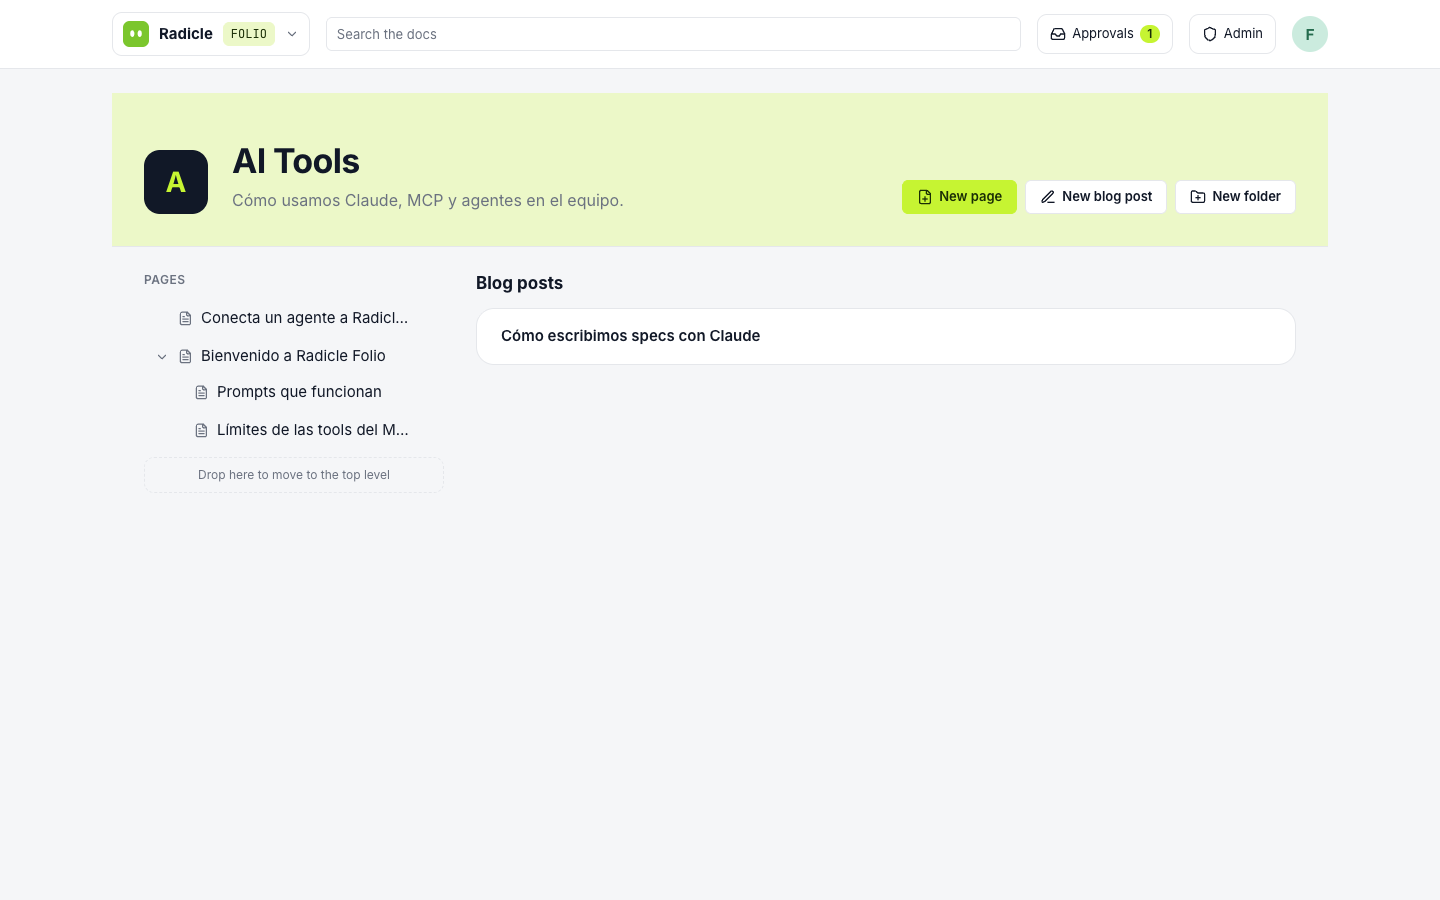
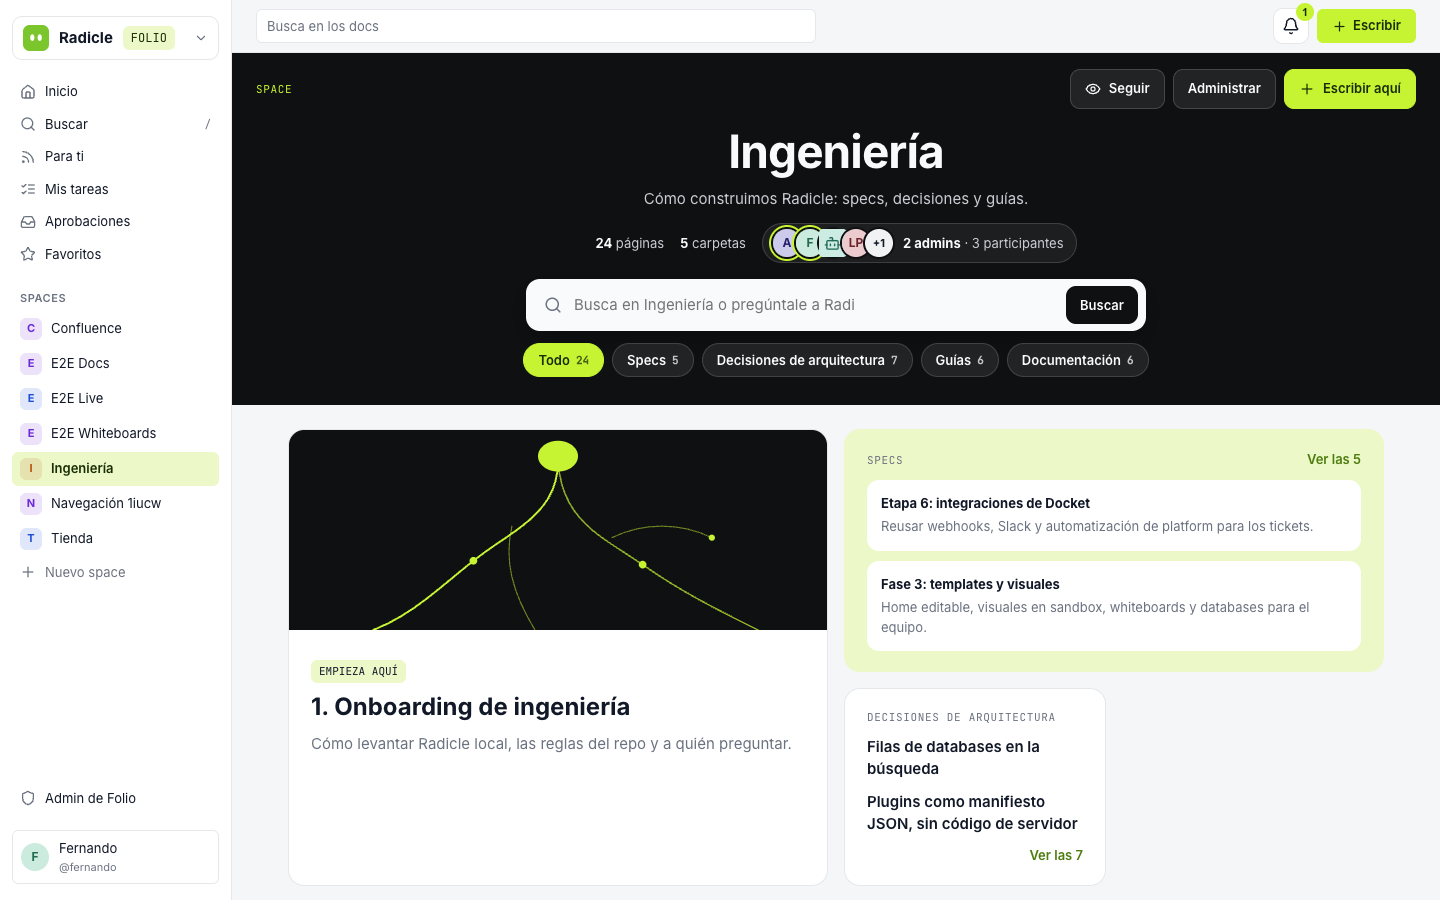
docs: Folio's new navigation in progress, the changelog and the READMEs (#467)
RAD-57 is closed: the progress entry lists its PRs and checks, the
changelog adds the new navigation and the Write dialog fix, and both
READMEs describe the sidebar, the space front page and its sections, with
two new screenshots.

Claude-Session: https://claude.ai/code/session_01TXA1ksCQmQs95Cjnry6PLy

diff --git a/README.es.md b/README.es.md
@@ -378,15 +378,16 @@ Docket (el tracker de tickets) y Folio comparten personas, grupos, agentes y el 
 
 <p align="center"><img src="docs/images/folio-home.png" alt="Home de Folio" width="900"></p>
 
+- **Navegación.** Un sidebar fijo como el de Docket, con el switch de apps en el mismo lugar: Inicio, Buscar, Para ti, Mis tareas, Aprobaciones, Favoritos y tus spaces. En el teléfono se abre como cajón.
 - **Home.** Una portada tipo revista: el doc destacado, el último anuncio, AI Tools, los últimos posts, lo más leído y cada space con su número de docs. **Write** empieza una página o un blog post en cualquier space donde puedas crear.
-- **Spaces y páginas.** Cada equipo tiene un space con un árbol de páginas y folders (arrástralos para reordenarlos o anidarlos) y un blog. Cada persona tiene además su space personal.
+- **Spaces.** Cada space abre en su portada: qué contiene, sus páginas y carpetas, quién participa (los admins con anillo lima), una búsqueda dentro del space y sus secciones: **Specs**, **Decisiones de arquitectura**, **Guías** y **Documentación**, que los admins del space muestran, esconden y reordenan. Los specs se filtran por proyecto de Docket y luego por sus features; las decisiones muestran primero las vigentes. **Administrar** abre las páginas, permisos, secciones y ajustes del space. Cada persona tiene además su space personal.
 
 <p align="center">
-  <img src="docs/images/folio-space.png" alt="Un space con su árbol y sus blog posts" width="49%">
-  <img src="docs/images/folio-read.png" alt="Lectura de una página como revista" width="49%">
+  <img src="docs/images/folio-space.png" alt="La portada de un space con sus secciones" width="49%">
+  <img src="docs/images/folio-specs.png" alt="Specs filtrados por proyecto y luego por sus features" width="49%">
 </p>
 
-- **Lectura.** Las páginas se leen como revista, con el índice "On this page", el dueño, estado, tipo, idioma y labels. El **modo enfoque** deja solo el texto y una barra de progreso, y recuerda tu elección. En claro y oscuro, como todo Radicle.
+- **Lectura.** Las páginas se leen como revista, con la ruta de regreso a su space y sección, la anterior y la siguiente de su carpeta, el índice "On this page", el dueño, estado, tipo, idioma y labels. El **modo enfoque** deja solo el texto y una barra de progreso, y recuerda tu elección. En claro y oscuro, como todo Radicle.
 - **Escritura.** Un editor a pantalla completa guarda tu borrador mientras escribes. Presiona <kbd>/</kbd> para cualquier bloque (encabezados, listas, checklists, tablas, código, paneles, expandibles, columnas, imágenes, archivos y video) o usa atajos de Markdown. Pega o suelta imágenes para subirlas.
 
 <p align="center">
@@ -429,7 +430,7 @@ Docket (el tracker de tickets) y Folio comparten personas, grupos, agentes y el 
 - **Embeds.** Pega un link de YouTube o Figma en su propia línea y se ve dentro de la página; los demás links quedan como tarjeta con su vista previa.
 - **Tickets dentro de los docs.** Pega una clave o un link de Docket y se vuelve un chip con el estado y el responsable del ticket en vivo; el bloque **Tabla de tickets** lista los tickets de una consulta RQL de Docket. Selecciona texto y presiona **Crear ticket** (o usa el botón de un action item) para abrir un ticket ligado a esa sección. Cada ticket en Docket tiene un panel **Docs** con los docs que lo mencionan o lo ligan, y cada milestone lista los docs que lo nombran en su metadata.
 - **Del build spec a sus tickets.** En un build spec, **Crear tickets** encuentra los entregables (la tabla de entregables o los encabezados numerados) y crea una tarea de Docket por cada uno, con sus criterios de aceptación como checklist y un link a su sección. Volver a correrlo solo agrega los nuevos. El bloque **Avance de tickets** (`::progress{}`) muestra el estado, el responsable y el checklist de cada ticket en vivo.
-- **Pregunta a los docs.** **Preguntar** en la barra de Folio (o <kbd>A</kbd>) responde con los docs que puedes leer, cita cada afirmación con `[n]` y cada fuente abre el doc en esa sección con el párrafo resaltado. Si los docs no lo dicen, lo dice y sugiere a quién preguntar; **Folio → Admin → Chat** junta esas preguntas para saber qué escribir.
+- **Pregunta a los docs.** **Radi**, el botón verde abajo a la derecha en Folio (o <kbd>A</kbd>), responde con los docs que puedes leer, cita cada afirmación con `[n]` y cada fuente abre el doc en esa sección con el párrafo resaltado. Si los docs no lo dicen, lo dice y sugiere a quién preguntar; **Folio → Admin → Chat** junta esas preguntas para saber qué escribir.
 - **IA en el editor.** **IA** resume la página; selecciona texto para reescribirlo más claro, más corto, más formal o en otro idioma; **Publicar** sugiere descripción, labels y tipo de documento para los campos vacíos. Un **Glosario** de términos que aprueba un admin muestra su definición al pasar el cursor. La IA solo propone: nada cambia hasta que lo aceptas, y nada aparece sin proveedor de IA o con la IA apagada en el space.
 
 <p align="center">

diff --git a/README.md b/README.md
@@ -407,15 +407,16 @@ Docket (the ticket tracker) and Folio share people, groups, agents and the sign-
 
 <p align="center"><img src="docs/images/folio-home.png" alt="Folio home" width="900"></p>
 
+- **Navigation.** A fixed sidebar like Docket's, with the app switch in the same place: Home, Search, For you, My tasks, Approvals, Favorites and your spaces. On a phone it opens as a drawer.
 - **Home.** A magazine-like front page: the featured doc, the latest announcement, AI Tools, the latest posts, the most read and every space with its doc count. **Write** starts a page or a blog post in any space where you can create.
-- **Spaces and pages.** Each team gets a space with a tree of pages and folders (drag to reorder or nest them) and a blog. Everyone also has a personal space.
+- **Spaces.** Each space opens on its front page: what it holds, its pages and folders, who takes part (admins ringed in lime), a search inside the space and its sections: **Specs**, **Architecture decisions**, **Guides** and **Docs**, which space admins can show, hide and reorder. Specs filter by Docket project and then its features; decisions show the current ones first. **Manage** opens the space's pages, permissions, sections and settings. Everyone also has a personal space.
 
 <p align="center">
-  <img src="docs/images/folio-space.png" alt="A space with its tree and blog posts" width="49%">
-  <img src="docs/images/folio-read.png" alt="Reading a page as a magazine" width="49%">
+  <img src="docs/images/folio-space.png" alt="A space's front page with its sections" width="49%">
+  <img src="docs/images/folio-specs.png" alt="Specs filtered by project, then by its features" width="49%">
 </p>
 
-- **Reading.** Pages read like a magazine, with an "On this page" index, the owner, status, type, language and labels. **Focus mode** leaves just the text and a progress bar, and it remembers your choice. Light and dark, like the rest of Radicle.
+- **Reading.** Pages read like a magazine, with a path back to their space and section, previous and next in their folder, an "On this page" index, the owner, status, type, language and labels. **Focus mode** leaves just the text and a progress bar, and it remembers your choice. Light and dark, like the rest of Radicle.
 - **Writing.** A full-screen editor saves your draft as you type. Press <kbd>/</kbd> for any block (headings, lists, checklists, tables, code, panels, expands, columns, images, files and video), or write Markdown shortcuts. Paste or drop images to upload them.
 
 <p align="center">
@@ -453,7 +454,7 @@ Docket (the ticket tracker) and Folio share people, groups, agents and the sign-
 - **Embeds.** Paste a YouTube or Figma link on its own line and it plays in the page; other links become a card with their preview.
 - **Tickets inside docs.** Paste a Docket key or link and it becomes a chip with the ticket's live status and assignee; the **Ticket table** block lists the tickets of a Docket RQL query. Select text and press **Create ticket** (or use the button on an action item) to open a ticket linked to that section. Each ticket in Docket has a **Docs** panel with the docs that mention or link it, and each milestone lists the docs that name it in their publishing metadata.
 - **From a build spec to its tickets.** On a build spec, **Create tickets** finds the deliverables (the deliverables table or numbered headings) and makes one Docket task per deliverable, with its acceptance criteria as a checklist and a link back to its section. Running it again only adds new ones. The **Ticket progress** block (`::progress{}`) shows each ticket's status, assignee and checklist live.
-- **Ask the docs.** **Ask** in the Folio bar (or <kbd>A</kbd>) answers from the docs you can read, cites every claim with `[n]`, and each source opens the doc at that section with the paragraph highlighted. When the docs don't say, it says so and suggests who to ask; **Folio → Admin → Chat** lists those questions so you know what to write next.
+- **Ask the docs.** **Radi**, the green button at the bottom right of Folio (or <kbd>A</kbd>), answers from the docs you can read, cites every claim with `[n]`, and each source opens the doc at that section with the paragraph highlighted. When the docs don't say, it says so and suggests who to ask; **Folio → Admin → Chat** lists those questions so you know what to write next.
 - **AI in the editor.** **AI** summarizes the page; select text to rewrite it clearer, shorter, more formal or in another language; **Publish** suggests a description, labels and document type for empty fields. A **Glossary** of terms approved by an admin shows their definition when you hover over them. The AI only proposes: nothing changes until you accept it, and nothing shows without an AI provider or with AI off in the space.
 
 <p align="center">

diff --git a/CHANGELOG.md b/CHANGELOG.md
@@ -6,6 +6,7 @@ Formato basado en [Keep a Changelog](https://keepachangelog.com/es-ES/1.1.0/).
 
 ### Added
 
+- Folio con navegación nueva (RAD-57): sidebar fijo como el de Docket con el switch de suite en el mismo lugar, cada space abre en su portada (hero con búsqueda, participantes y secciones, y bento), secciones configurables de Specs, Decisiones de arquitectura, Guías y Documentación, tablas con filtros que escalan (proyecto → feature), modo Administrar del space, ruta y anterior/siguiente al leer, y Radi en Folio con citas y sugerencias.
 - Folio fase 5 (integraciones externas): páginas públicas con link revocable, exportar a PDF, Word, HTML y Markdown, importar desde Confluence, Notion, Word y Markdown con dry run, Slack y Teams (avisos por space, `/radicle search` y `/radicle ask`, vista previa de links), webhooks firmados, reglas de automatización, plugins con bloques para el editor, calendarios por space con milestones de Docket y feed iCal, y analytics con búsquedas sin resultados y el audit de Folio.
 - Folio fase 4 (Docket + IA): smart links de tickets con estado en vivo, tabla de tickets por RQL, crear un ticket desde una selección o un action item, panel Docs en los tickets y milestones de Docket, build spec a tickets con checklist y bloque de avance en vivo, ligas de docs a proyectos, milestones y áreas, chat de los docs con citas a la sección exacta, IA en el editor (resumir, reescribir, sugerir metadata) con glosario, y prompts del MCP para agentes que escriben desde un codebase.
 - Folio fase 3 (contenido rico): templates de página y de space (con "Equipo de ingeniería" incluido), editor de la home en un grid de 12 columnas, bloque Visual en sandbox, diagramas Mermaid, gráficas, timeline, comparación, fórmulas KaTeX, lista por label, whiteboards de Excalidraw en tiempo real, databases con vistas de tabla, tarjetas y tablero, y embeds con vista previa de links.
@@ -26,6 +27,7 @@ Formato basado en [Keep a Changelog](https://keepachangelog.com/es-ES/1.1.0/).
 
 ### Fixed
 
+- Folio: el diálogo Escribir se cierra al abrir la página nueva.
 - Folio: importar el mismo export a otro space ya no actualiza las páginas del primero; el PDF de un doc en español sale en español; el botón Exportar de la lectura ya no se encoge; las reglas de ejemplo salen una vez; Slack muestra las negritas de `/radicle`; los bloques de plugins reciben el idioma de quien lee; crear tickets desde un doc arranca en su proyecto de Docket; el panel Docs de un ticket lista cada doc una vez.
 - Folio: las respuestas del chat se guardan (antes se perdían y dejaban una conexión abierta), también si el lector se va en cuanto llegan; los tickets que crea Folio salen en el idioma del doc; la propuesta de reescritura de la IA ya no tapa los botones de comentar y crear ticket; las tareas del editor alinean su texto con la casilla; el menú ⋯ de la página muestra su icono.
 - Folio: un whiteboard o una database sin elegir ya no impiden guardar el borrador en el editor en tiempo real; el iframe de un visual ya no se pinta blanco en modo oscuro y se encoge a su contenido; la vista y la columna default de una database se traducen.

diff --git a/docs/progress.md b/docs/progress.md
@@ -922,3 +922,19 @@ Pendiente:
 - Teams no muestra vistas previas de links, y su `/radicle ask` contesta en la misma petición, así que con un modelo lento se puede pasar del tiempo.
 - Los avisos que manda Radicle a Slack y Teams están en inglés.
 
+## Navegación de Folio (RAD-57)
+
+Cerrada el 22 de octubre de 2026. Diseño iterado en el canvas de diseño y probado en un MVP navegable; ADR 0044 (navegación con sidebar fijo y secciones) y ADR 0045 (tablas de Specs y Decisiones de arquitectura).
+
+- **Shell:** sidebar fijo como el de Docket (#437, #440, #444); el switch de suite queda en la misma caja en las dos apps (prueba E2E con ±1 px). Inicio, Buscar, Para ti, Mis tareas, Aprobaciones, Favoritos, spaces, Admin de Folio y el usuario; en el teléfono es un cajón. Para ti y Favoritos (#439). Rutas de Folio en su archivo (#435).
+- **Space como portada (K2):** hero negro de borde a borde con conteos y participantes (admins con anillo lima), búsqueda dentro del space, pastillas de secciones y bento (#433, #436, #442, #443, #447, #463).
+- **Secciones configurables:** Specs, Decisiones de arquitectura, Guías y Documentación, cada una por tipo de doc (migración 0065).
+  - Specs: tabla con filtros proyecto → feature (áreas de Docket), estado y dueño, con un selector que escala y pastillas que se quitan (#434, #441, #445, #446).
+  - Decisiones de arquitectura: vigentes por default, qué reemplaza a qué (#438, #448).
+  - Guías con el camino de primeros pasos (#450) y Documentación por módulo (#452), con la sugerencia de Radi sobre páginas vencidas (#460, #461).
+- **Modo admin (Administrar):** Páginas, Permisos, Secciones y Ajustes (#454, #456, #459).
+- **Lectura:** ruta Space / Sección / carpetas / página y anterior/siguiente (#449).
+- **Radi en Folio:** el botón de Radi abre el chat de los docs con citas, las herramientas que usó y "Escribir un borrador con esto" (#451); la tarjeta oscura de sugerencias (#453, #455).
+- **Arreglos al cerrar:** el diálogo Escribir se queda abierto sobre el editor porque el botón ahora vive en la barra (#465); WriteButton pasa a los componentes compartidos (#462).
+- **Pruebas:** `e2e/suite-folio-navigation.spec.ts` (#464) y las pruebas de live docs y whiteboards ajustadas a Administrar (#466). Suite de Playwright completa sobre un stack aislado: 52 de 52. Backend: 1,564 pruebas pasan con 95% de cobertura; frontend: 571 pruebas y el build.
+
